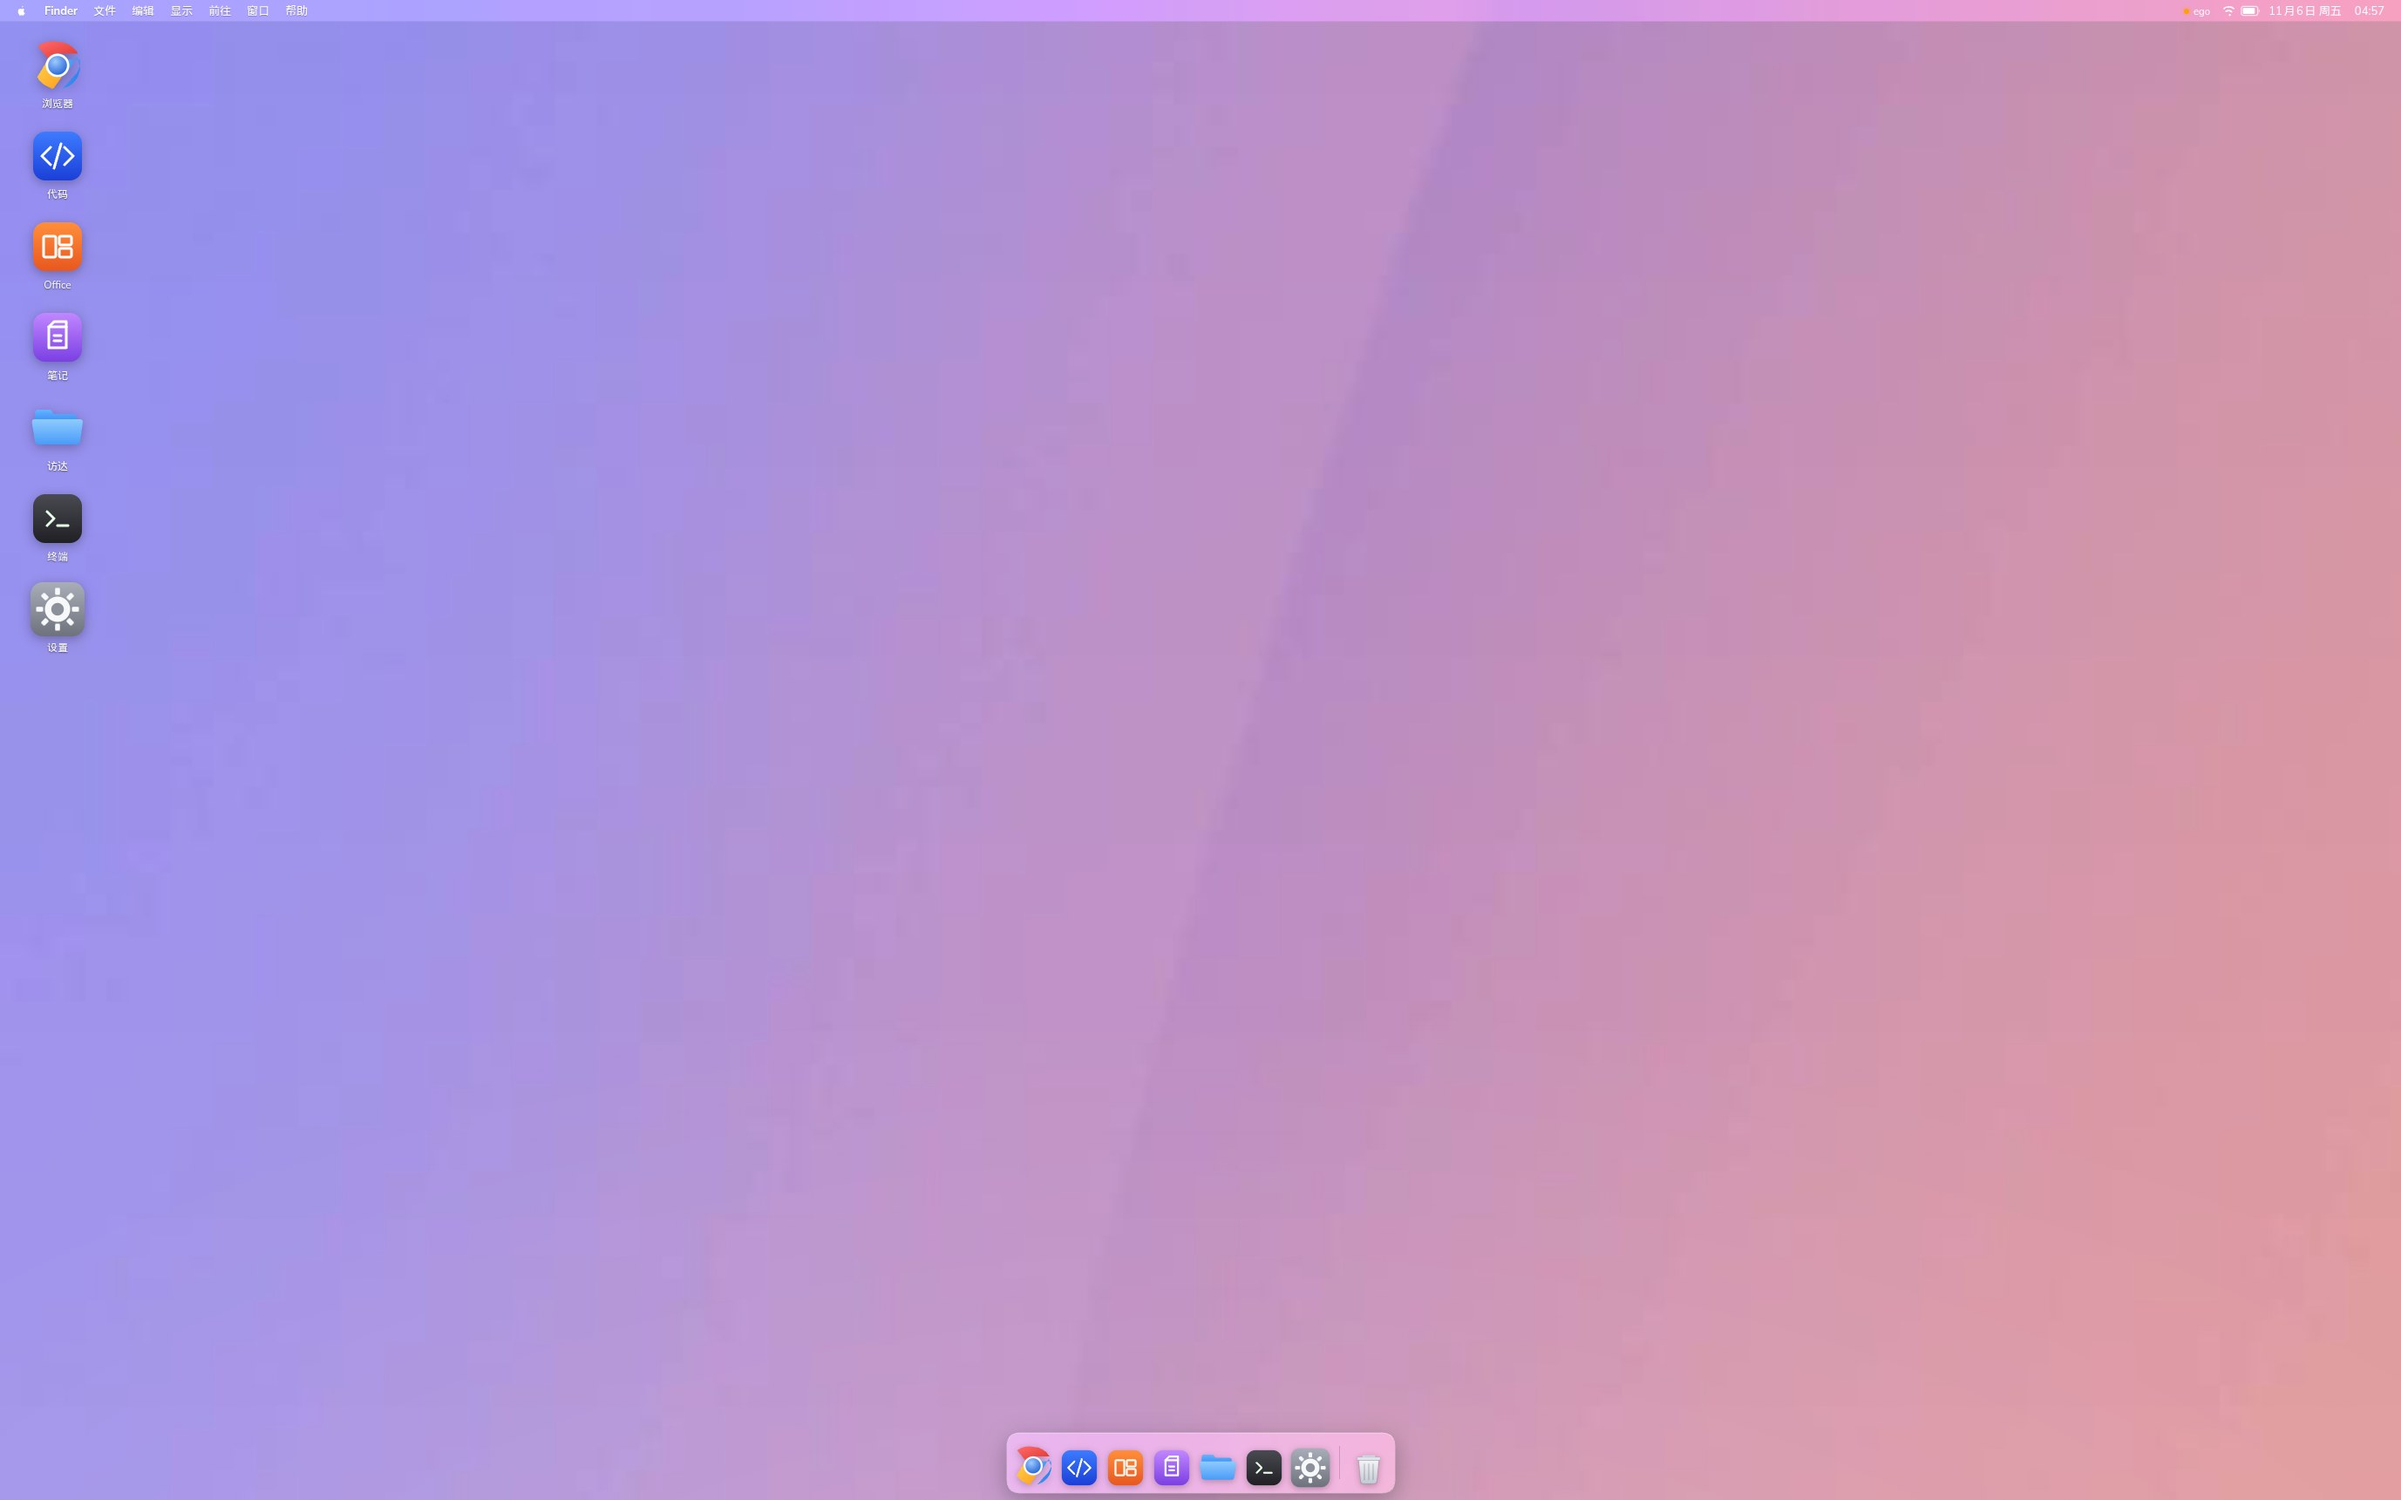
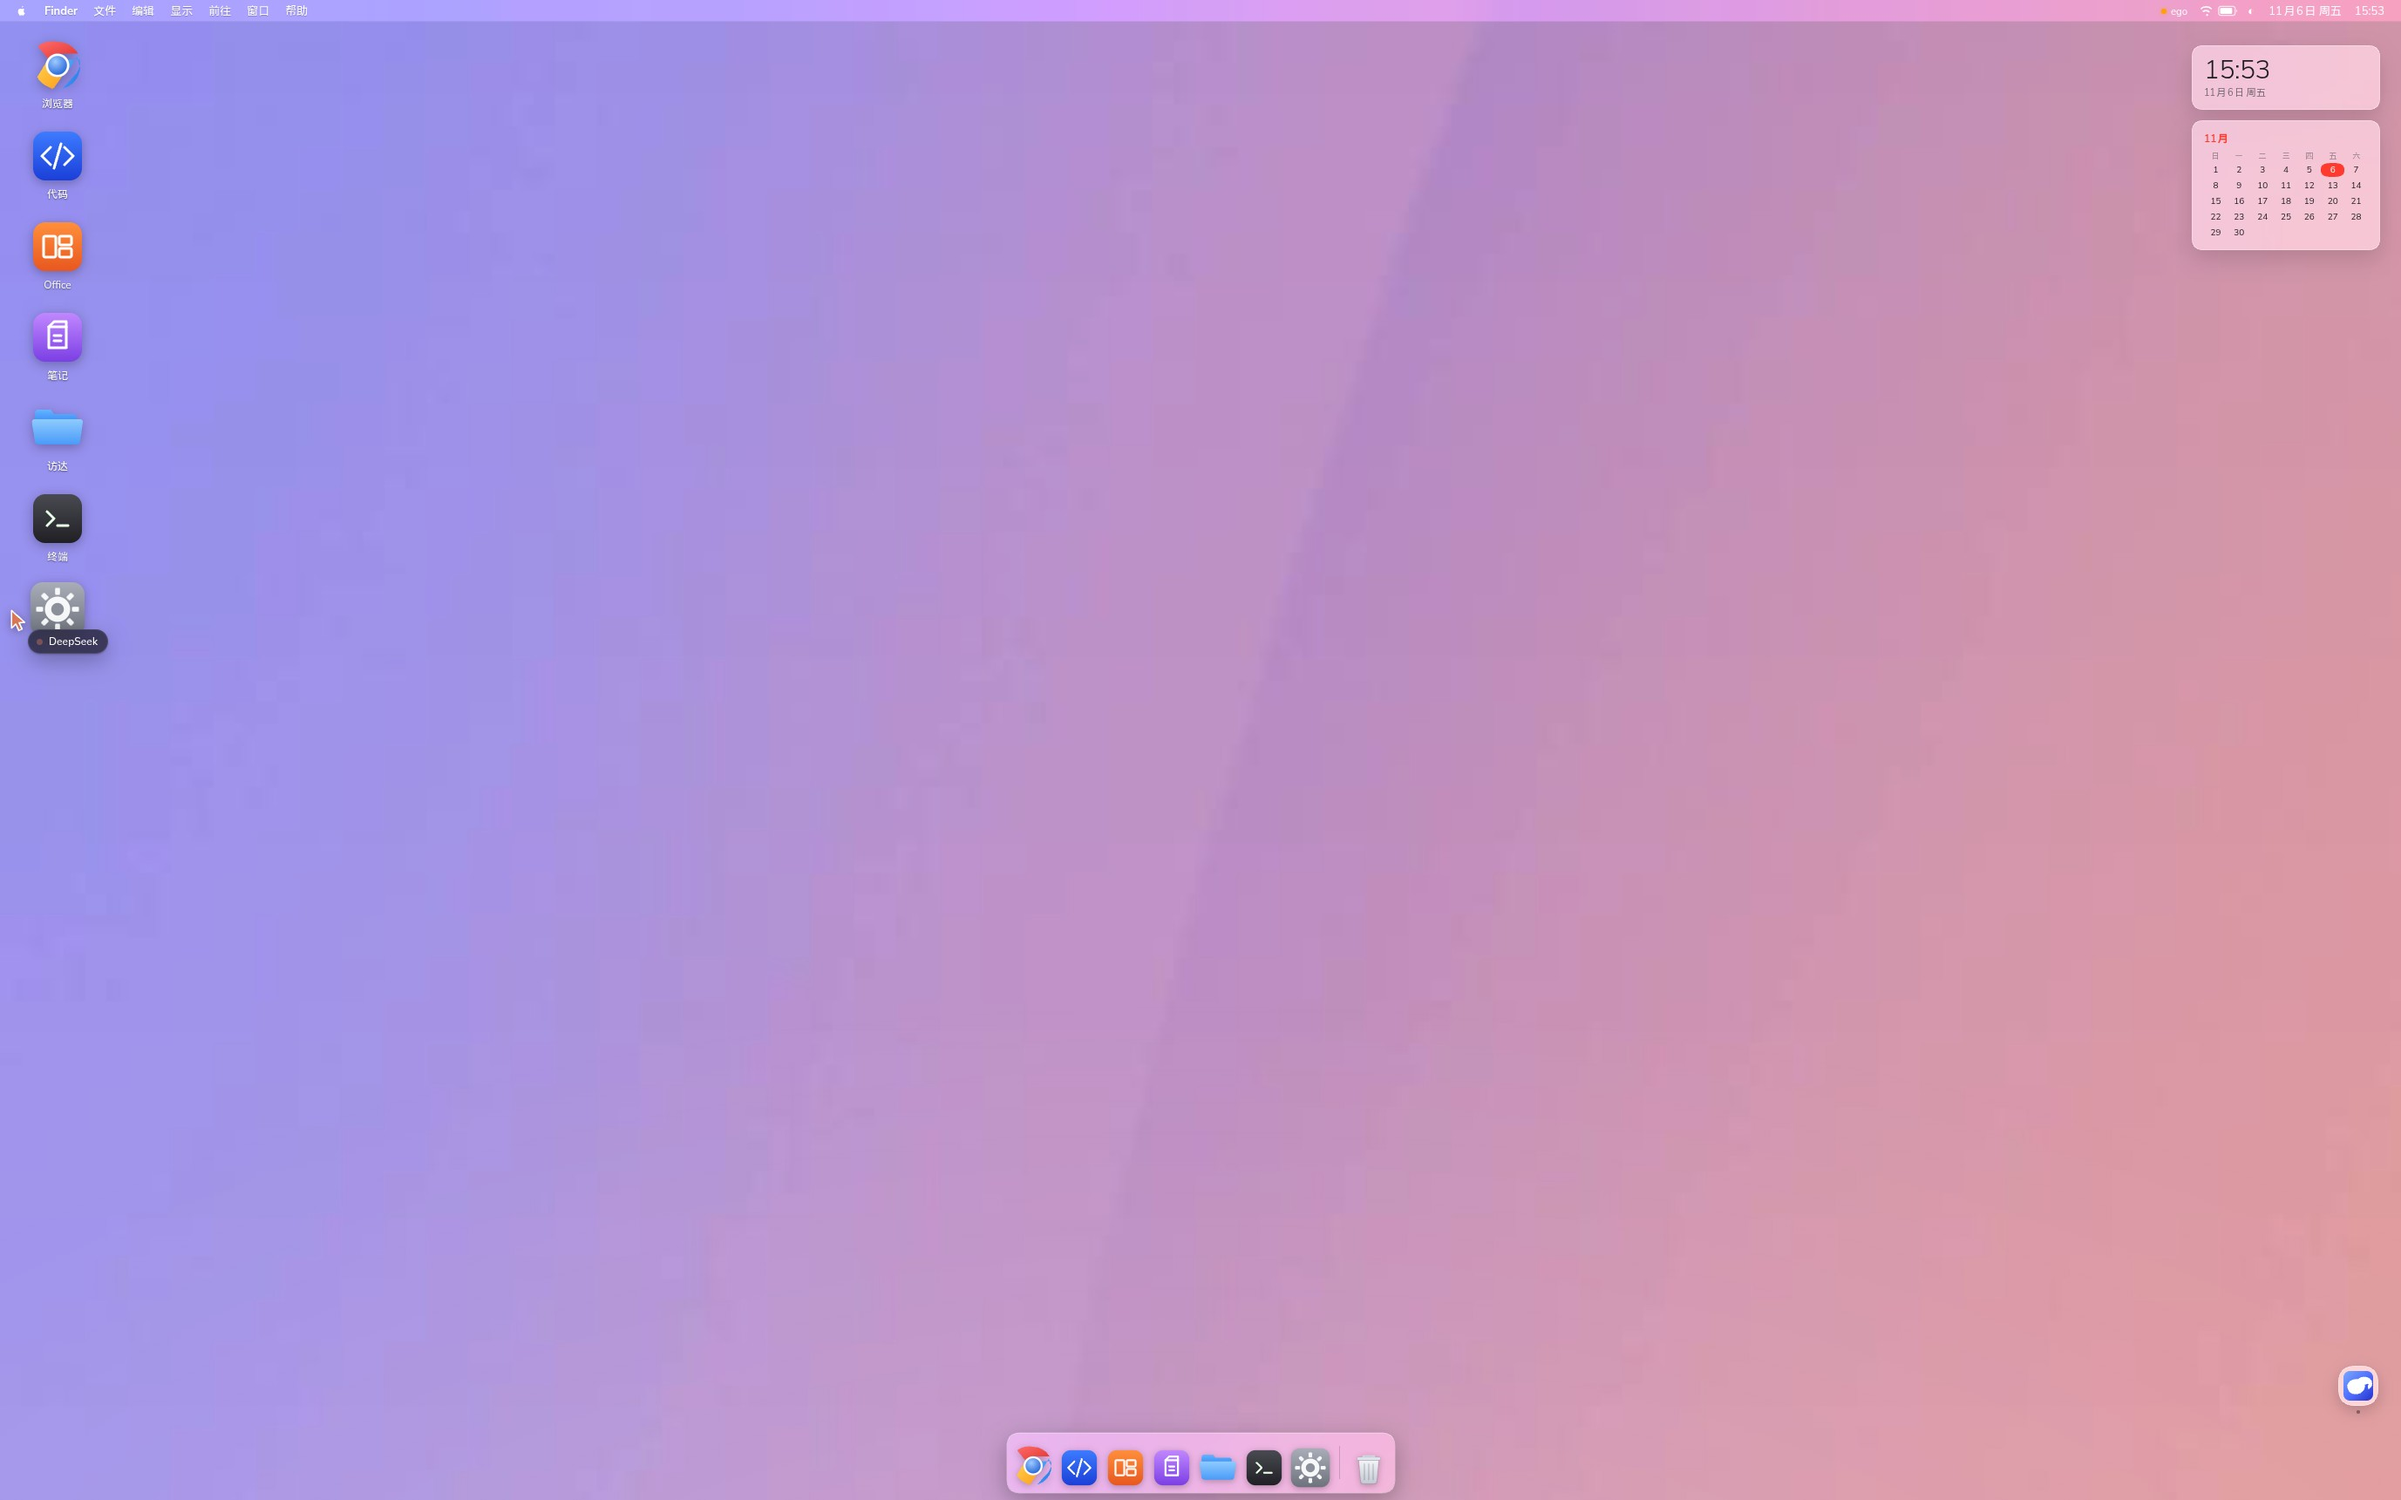
docs: retake hero screenshots at 2754x1721, add Launchpad shot, wider conversation overlay

Changed region(s): [[0.9056, 0.0, 0.9993, 0.1848], [0.0, 0.4003, 0.0625, 0.4619], [0.968, 0.8931, 0.9993, 0.9547]]

diff --git a/macos-desktop/macos.css b/macos-desktop/macos.css
@@ -1974,7 +1974,7 @@ html[data-macos-desktop] .macos-browser-hole:focus-visible {
 html[data-macos-desktop][data-macos-chat='on'] [class*='_centerCol'] {
   position: fixed !important; left: 50% !important; top: 6vh !important;
   transform: translateX(-50%) !important;
-  width: min(820px, 92vw) !important; height: 78vh !important;
+  width: min(1040px, 88vw) !important; height: 80vh !important;
   z-index: 620 !important; border-radius: 14px; overflow: hidden;
   box-shadow: 0 26px 60px rgba(0, 0, 0, 0.32), 0 0 0 0.5px rgba(0, 0, 0, 0.14);
   background: var(--dsw-alias-bg-base);

diff --git a/README.zh.md b/README.zh.md
@@ -22,6 +22,10 @@
 
 ![真软件](docs/03-apps.jpg)
 
+![启动台](docs/04-launchpad.jpg)
+
+*启动台：所有软件一屏铺开。*
+
 ---
 
 ## 为什么这是一个操作系统，而不是又一个工具调用

diff --git a/README.md b/README.md
@@ -23,6 +23,10 @@
 
 ![Real apps](docs/03-apps.jpg)
 
+![Launchpad](docs/04-launchpad.jpg)
+
+*Launchpad: every app, one blurred grid.*
+
 ---
 
 ## Why this is an OS, not another tool call
